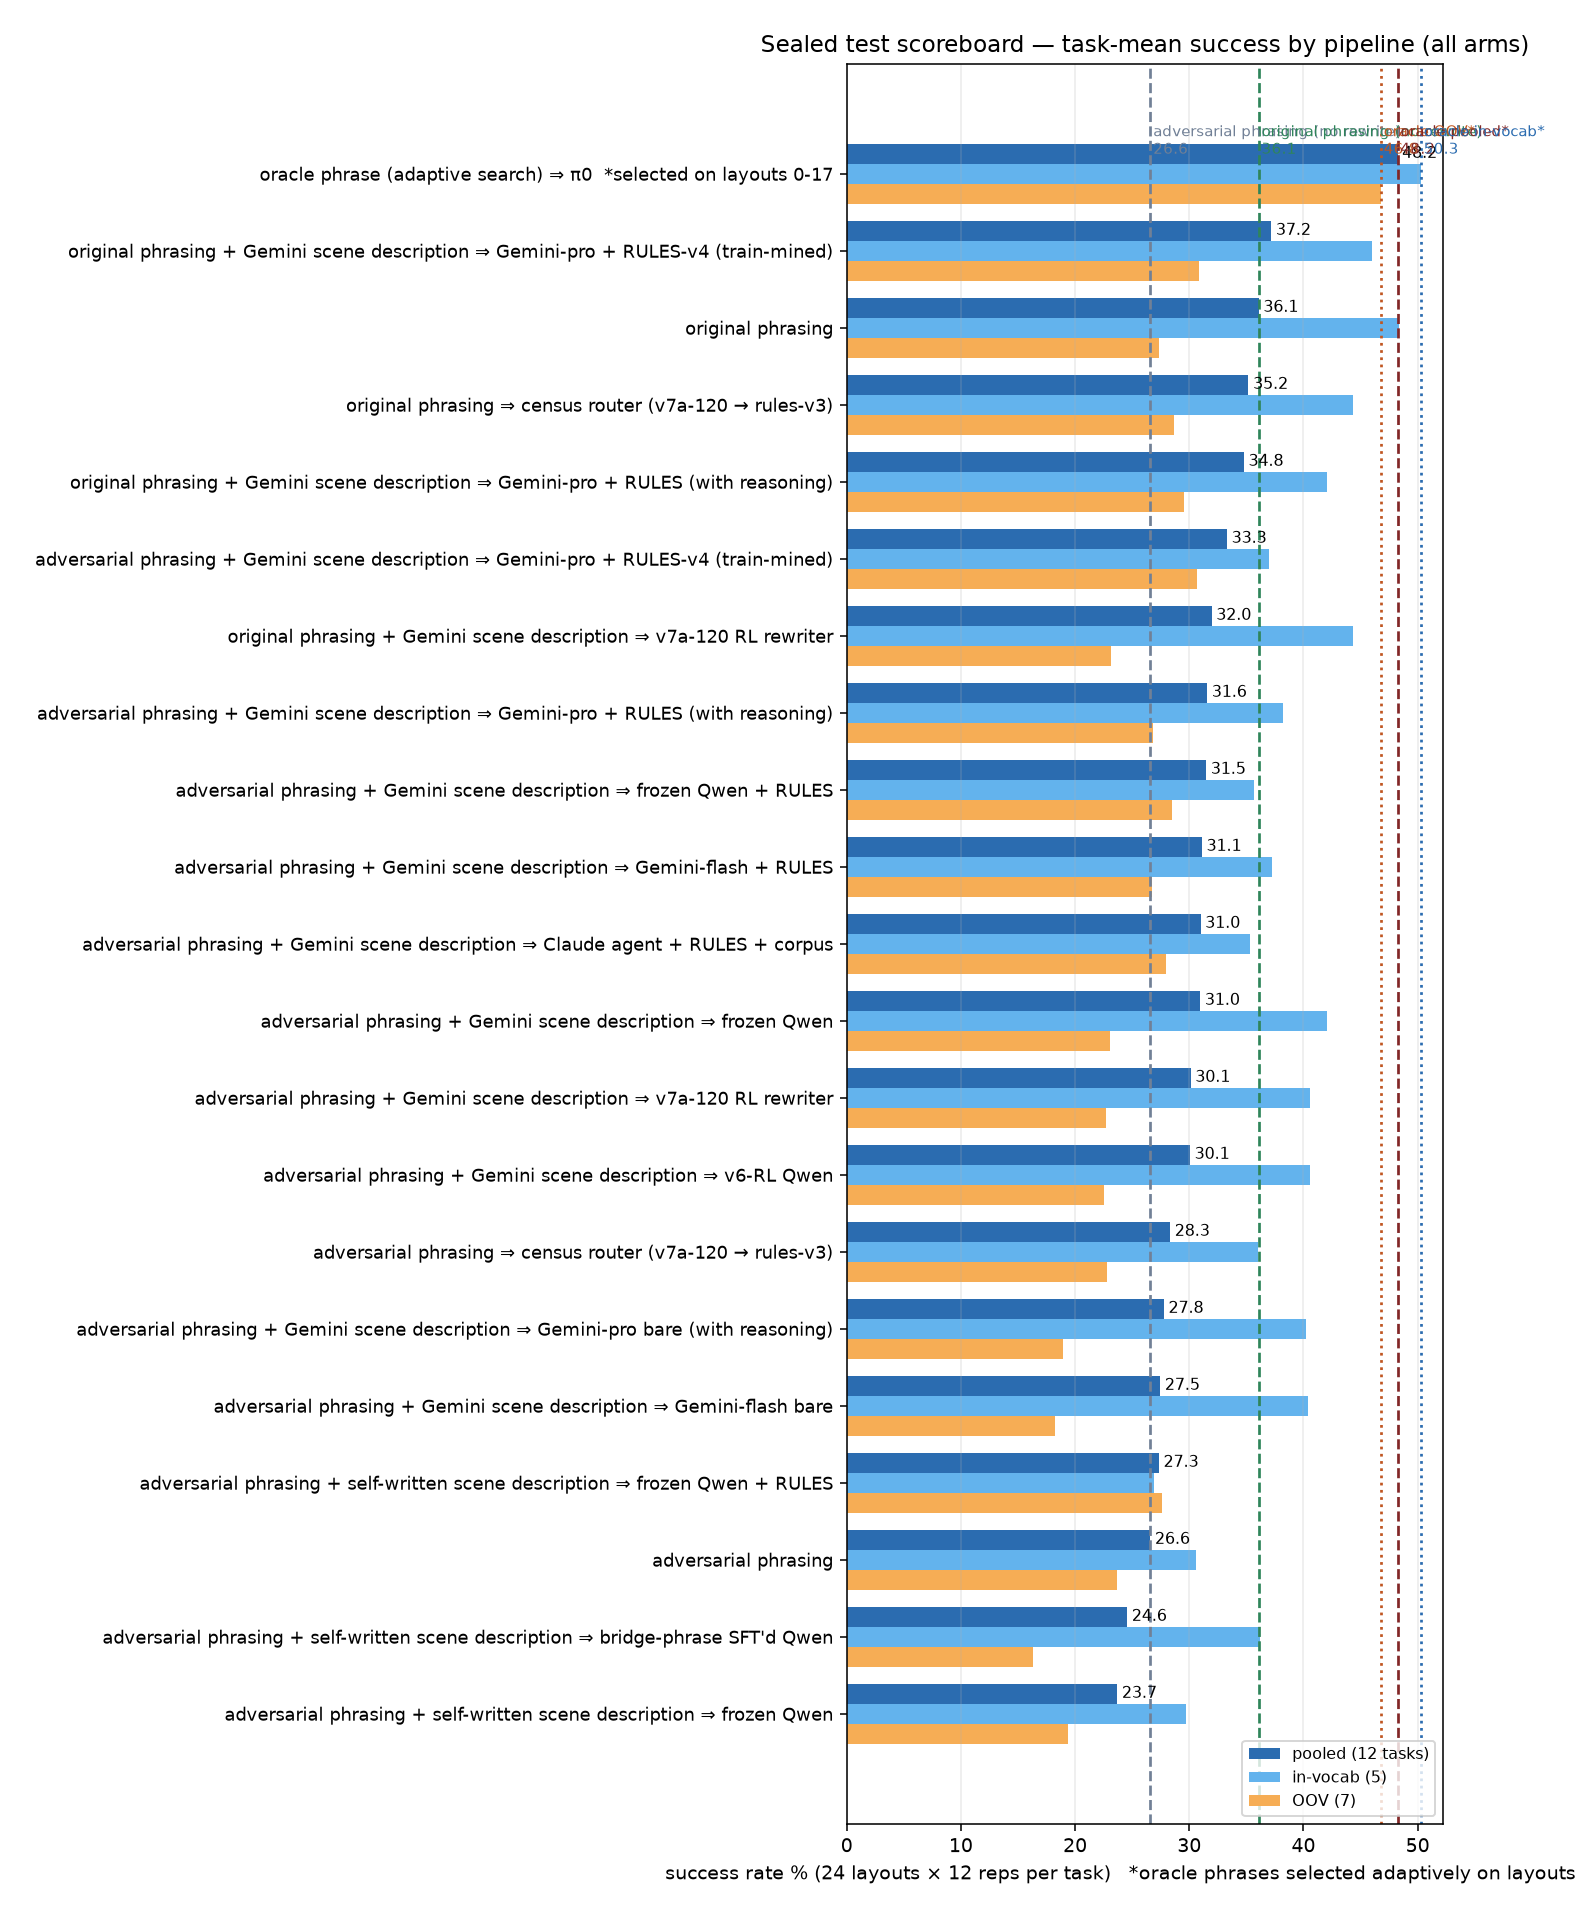
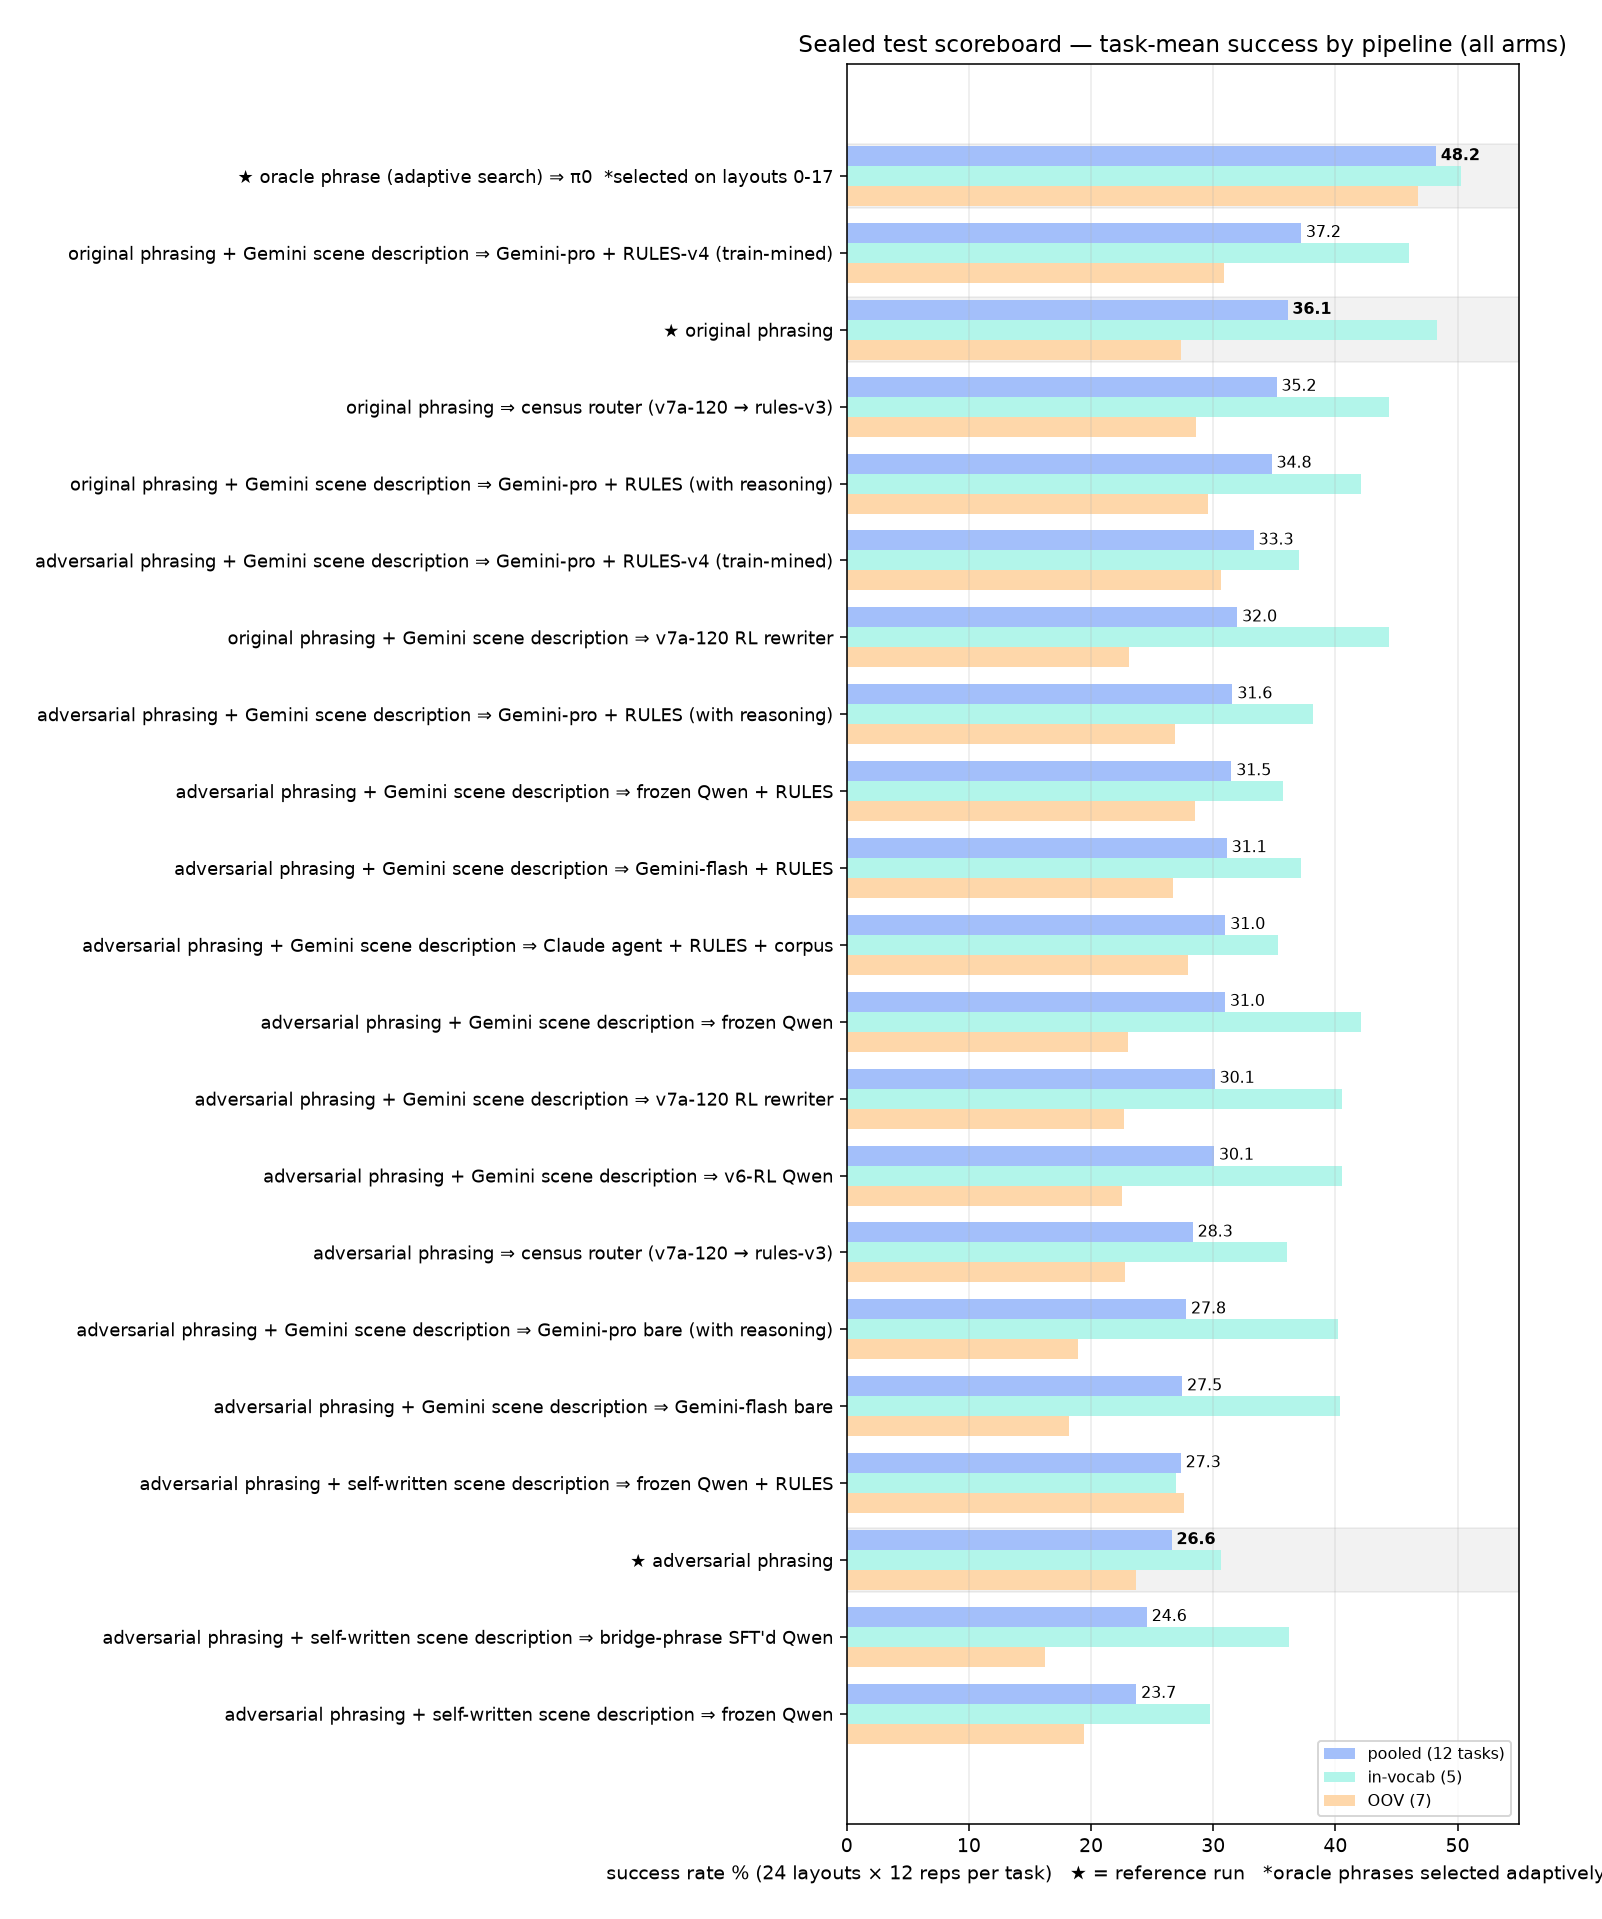
scoreboard: references as starred bar-rows, pastel palette

diff --git a/scripts/make_sealed_scoreboard.py b/scripts/make_sealed_scoreboard.py
@@ -120,44 +120,36 @@ def main() -> None:
         ceiling = sum(best) / len(best)
         print(f"confirmed oracle ceiling (held-out, {len(conf)}-task mean): {ceiling:.1f}")
 
-    refs = {r.arm: r.pooled for _, r in sb.iterrows()
-            if r.arm in ("originals", "passthrough", "oracle_confirmed")}
+    REF_ARMS = {"originals", "passthrough", "oracle_confirmed"}
 
     def render(frame, path, title):
+        frame = pd.concat([frame[~frame.arm.isin(REF_ARMS)],
+                           sb[sb.arm.isin(REF_ARMS)]]).sort_values("pooled").reset_index(drop=True)
         fig, ax = plt.subplots(figsize=(11, 0.52 * len(frame) + 2.6))
         y = range(len(frame))
         h = 0.26
-        ax.barh([i + h for i in y], frame.pooled, h, color="#2b6cb0", label="pooled (12 tasks)")
-        ax.barh(y, frame.in_vocab, h, color="#63b3ed", label=f"in-vocab ({len(iv)})")
-        ax.barh([i - h for i in y], frame.oov, h, color="#f6ad55", label=f"OOV ({len(oov)})")
+        ax.barh([i + h for i in y], frame.pooled, h, color="#a3bffa", label="pooled (12 tasks)")
+        ax.barh(y, frame.in_vocab, h, color="#b2f5ea", label=f"in-vocab ({len(iv)})")
+        ax.barh([i - h for i in y], frame.oov, h, color="#fed7aa", label=f"OOV ({len(oov)})")
         for i, r in frame.iterrows():
-            ax.text(r.pooled + 0.4, i + h, f"{r.pooled:.1f}", va="center", fontsize=8)
+            ax.text(r.pooled + 0.4, i + h, f"{r.pooled:.1f}", va="center", fontsize=8,
+                    fontweight="bold" if r.arm in REF_ARMS else "normal")
         ax.set_yticks(list(y))
-        ax.set_yticklabels([NAME.get(a, a) for a in frame.arm], fontsize=9)
-        orc = sb[sb.arm == "oracle_confirmed"]
-        o_iv = float(orc.in_vocab.iloc[0]) if len(orc) else None
-        o_oov = float(orc.oov.iloc[0]) if len(orc) else None
-        for val, lbl, col, ls in [
-                (refs.get("passthrough"), "adversarial phrasing (no rewrite)", "#718096", "--"),
-                (refs.get("originals"), "original phrasing (no rewrite)", "#2f855a", "--"),
-                (o_oov, "oracle OOV*", "#c05621", ":"),
-                (refs.get("oracle_confirmed"), "oracle pooled*", "#822727", "--"),
-                (o_iv, "oracle in-vocab*", "#2b6cb0", ":")]:
-            if val is None:
-                continue
-            ax.axvline(val, ls=ls, color=col, lw=1.4)
-            ax.text(val + 0.25, len(frame) - 0.35, f"{lbl}\n{val:.1f}", color=col, fontsize=7.5, va="top")
+        labels = [("★ " if a in REF_ARMS else "") + NAME.get(a, a) for a in frame.arm]
+        ax.set_yticklabels(labels, fontsize=9)
+        for i, a in enumerate(frame.arm):
+            if a in REF_ARMS:
+                ax.axhspan(i - 0.42, i + 0.42, color="#000000", alpha=0.05, zorder=0)
         ax.set_xlabel("success rate % (24 layouts × 12 reps per task)   "
-                      "*oracle phrases selected adaptively on layouts 0-17")
+                      "★ = reference run   *oracle phrases selected adaptively on layouts 0-17")
         ax.set_title(title)
         ax.legend(loc="lower right", fontsize=8)
         ax.grid(axis="x", alpha=0.25)
-        ax.set_xlim(0, max(52, refs.get("oracle_confirmed", 50) + 4))
+        ax.set_xlim(0, 55)
         fig.tight_layout()
         fig.savefig(path, dpi=140, bbox_inches="tight", pad_inches=0.25)
         print(f"chart -> {path}")
 
-    REF_ARMS = {"originals", "passthrough", "oracle_confirmed"}
     is_nominal = sb.arm.map(lambda a: NAME.get(a, "").startswith("original phrasing"))
     nom = sb[is_nominal & ~sb.arm.isin(REF_ARMS)].reset_index(drop=True)
     adv = sb[~is_nominal & ~sb.arm.isin(REF_ARMS)].reset_index(drop=True)
